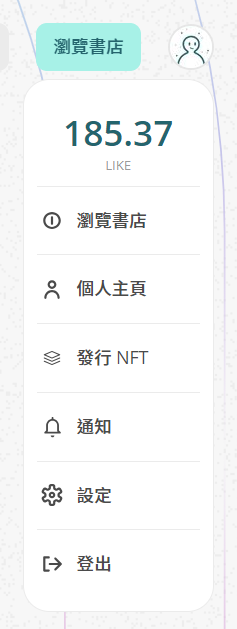
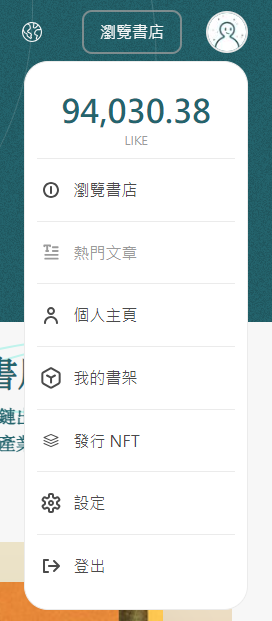
GITBOOK-4597: Liker Land 網頁版

diff --git a/user-guide/liker-land/liker-land-web.md b/user-guide/liker-land/liker-land-web.md
@@ -8,23 +8,27 @@ description: 網頁版的 Liker Land
 
 <figure><img src="../../.gitbook/assets/Liker Land menu.png" alt=""><figcaption><p>Liker Land 操作選項</p></figcaption></figure>
 
-## 選項一：瀏覽書店 - [https://liker.land/zh-Hant/store](https://liker.land/zh-Hant/store)
+## 選項一：瀏覽書店 - [https://liker.land/zh-Hant/store/featured](https://liker.land/zh-Hant/store/featured)
 
-書店展示精選 NFT 電子書，熱門與最新的 Writing NFT 及文章推介。
+書店展示精選 NFT 電子書。
 
-## 選項二：個人主頁 - [https://liker.land/zh-Hant/feed](https://liker.land/zh-Hant/feed?view=town)
+## 選項二：熱門文章 - [https://liker.land/zh-Hant/store/articles](https://liker.land/zh-Hant/store/articles)
+
+熱門與最新的 Writing NFT 及文章推介。
+
+## 選項三：個人主頁 - [https://liker.land/zh-Hant/feed?view=town](https://liker.land/zh-Hant/feed?view=town)
 
 連接用戶[個人主頁](../../depub/writing-nft/collect-writing-nft/dashboard.md)頁面。
 
-## 選項三：出版 NFT - [https://app.like.co/nft/url](https://app.like.co/nft/url)
+## 選項四：我的書架 - [https://liker.land/zh-Hant/\[錢包地址\]?tab=collected](https://liker.land/zh-Hant/\[%E9%8C%A2%E5%8C%85%E5%9C%B0%E5%9D%80]?tab=collected)
+
+連接用戶[書架](../../depub/writing-nft/collect-writing-nft/bookshelf.md)頁面。
+
+## 選項五：發行 NFT - [https://app.like.co/nft/url](https://app.like.co/nft/url)
 
 使用 [NFT Portal](../../depub/writing-nft/nft-portal/) 出版 NFT。
 
-## 選項四：通知 - [https://liker.land/zh-Hant/notifications](https://liker.land/zh-Hant/notifications)
-
-送贈及收藏 NFT [通知](../../depub/writing-nft/collect-writing-nft/notifications.md)。
-
-## 選項五：設定 - [https://liker.land/zh-Hant/settings/](https://liker.land/zh-Hant/settings/)
+## 選項六：設定 - [https://liker.land/zh-Hant/settings/](https://liker.land/zh-Hant/settings/)
 
 <figure><img src="../../.gitbook/assets/Liker Land settings.png" alt=""><figcaption><p>設定</p></figcaption></figure>
 
@@ -40,7 +44,7 @@ description: 網頁版的 Liker Land
 [follow-creators.md](../../depub/writing-nft/collect-writing-nft/follow-creators.md)
 {% endcontent-ref %}
 
-### 更改介面語言 - [https://liker.land/zh-Hant/settings/language](https://liker.land/zh-Hant/settings/language)
+### 介面語言 - [https://liker.land/zh-Hant/settings/language](https://liker.land/zh-Hant/settings/language)
 
 ### Liker ID - [https://like.co/in/register](https://like.co/in/register)
 
